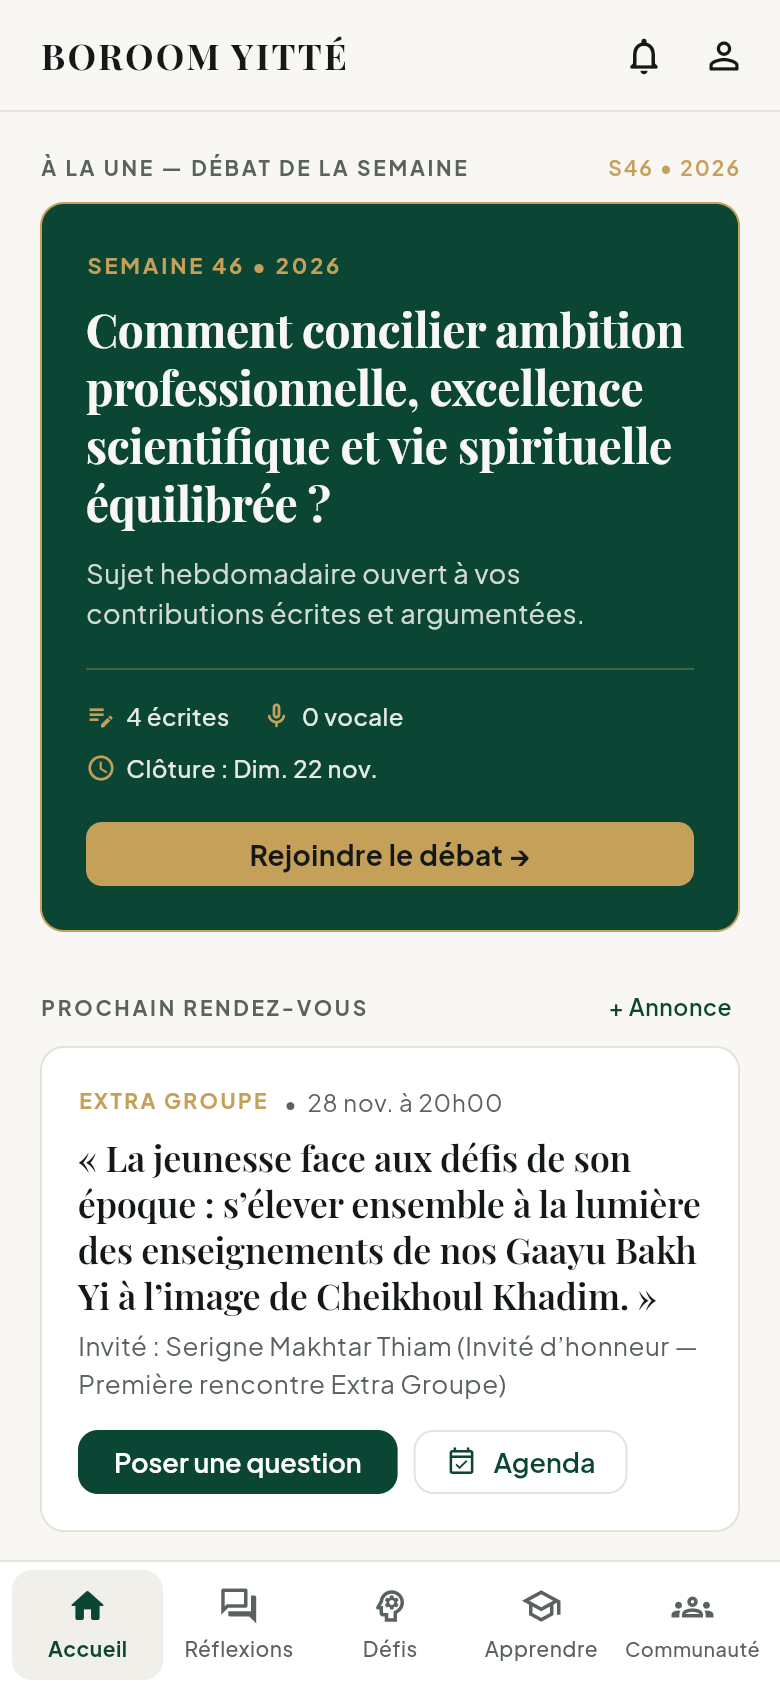
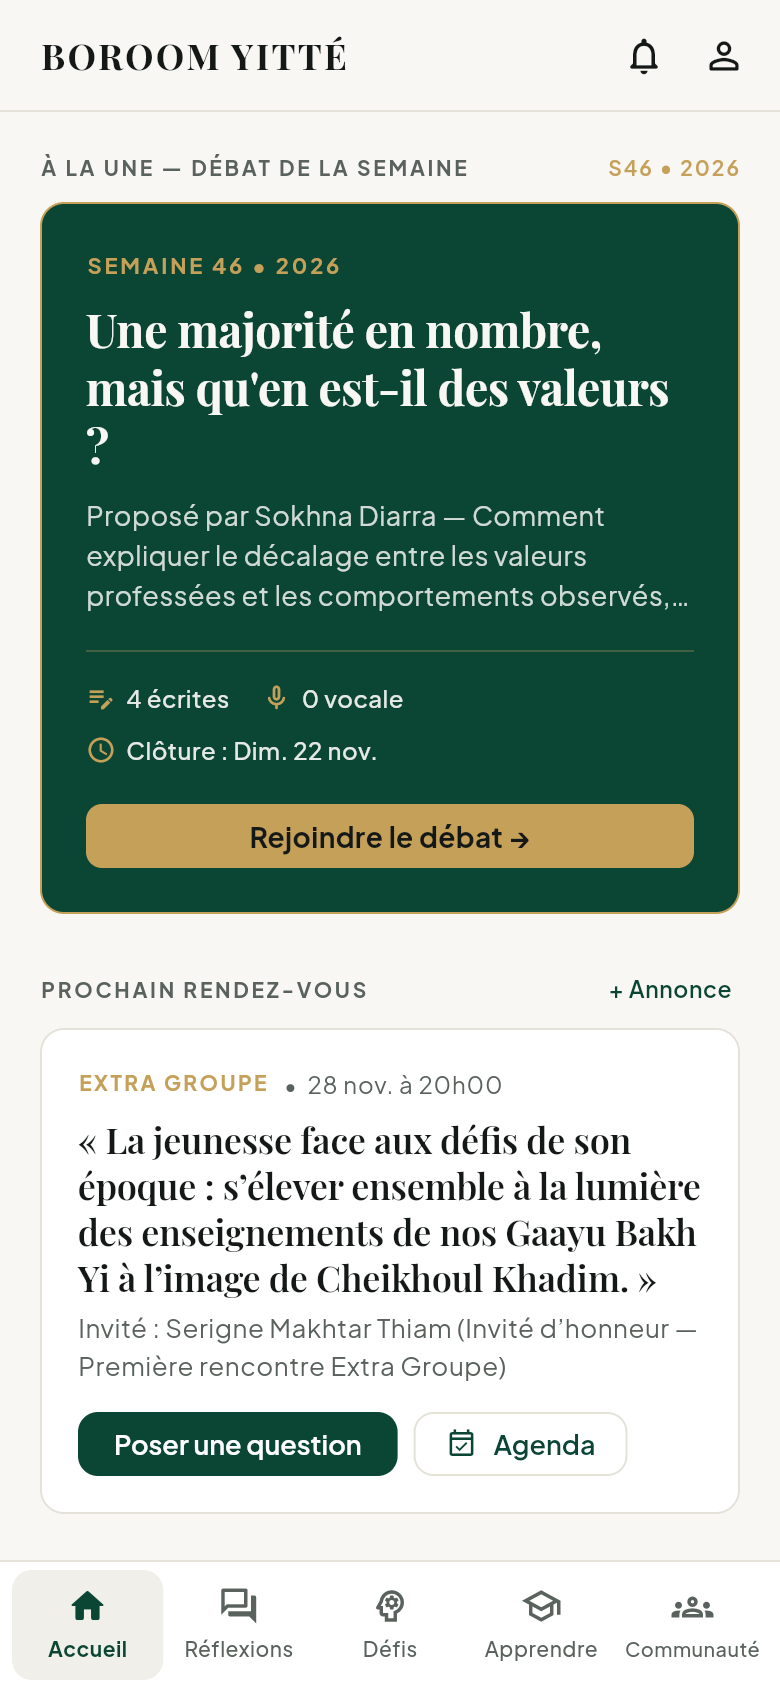
Sujets communautaires bruts sans jugement/moderationNote + import direct de sujets (.txt/.md)

diff --git a/mobile/lib/app/state/app_providers.dart b/mobile/lib/app/state/app_providers.dart
@@ -493,9 +493,11 @@ class EcosystemNotifier extends StateNotifier<EcosystemState> {
               .toList()
           : state.deletedReflectionIds;
       final loadedReflections = snap['reflections'] is List
-          ? (snap['reflections'] as List)
-              .map((e) => ReflectionPost.fromJson(Map<String, dynamic>.from(e)))
-              .toList()
+          ? (snap['reflections'] as List).map((e) {
+              final map = Map<String, dynamic>.from(e);
+              map['moderation_note'] = null;
+              return ReflectionPost.fromJson(map);
+            }).toList()
           : state.reflections;
       final mergedReflections = _mergeHistoricalArchives(
         loadedReflections,
@@ -507,12 +509,18 @@ class EcosystemNotifier extends StateNotifier<EcosystemState> {
               .map((e) => ExtraGroupeMeetingModel.fromJson(Map<String, dynamic>.from(e)))
               .toList()
           : state.extraGroupeMeetings;
+      final loadedWeekly = snap['weekly_topic'] is Map
+          ? WeeklyTopicModel.fromJson(
+              Map<String, dynamic>.from(snap['weekly_topic']))
+          : null;
+      final effectiveWeekly = (loadedWeekly == null ||
+              (loadedWeekly.id == 'wt-46' &&
+                  loadedWeekly.title.startsWith('Comment concilier ambition')))
+          ? state.weeklyTopic
+          : loadedWeekly;
       state = state.copyWith(
         reflections: mergedReflections,
-        weeklyTopic: snap['weekly_topic'] is Map
-            ? WeeklyTopicModel.fromJson(
-                Map<String, dynamic>.from(snap['weekly_topic']))
-            : state.weeklyTopic,
+        weeklyTopic: effectiveWeekly,
         challenges: snap['challenges'] is List
             ? _mergeChallenges(
                 (snap['challenges'] as List)
@@ -846,6 +854,29 @@ class EcosystemNotifier extends StateNotifier<EcosystemState> {
         .toList();
     state = state.copyWith(reflections: updated);
     BackendRepository.instance.cacheReflections(updated);
+    _persistSnapshot();
+  }
+
+  void setWeeklyTopic({
+    required String title,
+    required String introduction,
+    List<String> guidingQuestions = const [],
+  }) {
+    final t = state.weeklyTopic;
+    state = state.copyWith(
+      weeklyTopic: WeeklyTopicModel(
+        id: 'wt-${DateTime.now().millisecondsSinceEpoch}',
+        weekNumber: t.weekNumber,
+        year: t.year,
+        title: title,
+        introduction: introduction,
+        guidingQuestions: guidingQuestions.isNotEmpty
+            ? guidingQuestions
+            : t.guidingQuestions,
+        contributions: const [],
+        summary: null,
+      ),
+    );
     _persistSnapshot();
   }
 
@@ -2028,8 +2059,6 @@ EcosystemState _buildInitialState() {
         isFeaturedInLibrary: true,
         isHistoricalArchive: true,
         discussionDateLabel: 'Archive communautaire',
-        moderationNote:
-            'Cadre éditorial : examiner les représentations sociales, la responsabilité individuelle et collective et l’éducation, sans stigmatiser aucune communauté religieuse ni présenter des perceptions comme des statistiques.',
         mainQuestions: const [
           'Sommes-nous face à une défaillance de l’éducation, à un manque de communication, à une crise des valeurs ou aux conséquences d’une société qui ne sait plus transmettre ses repères ?',
           'Avons-nous collectivement échoué à faire de l’éducation morale et du sens des responsabilités des priorités ?',
@@ -2082,8 +2111,6 @@ EcosystemState _buildInitialState() {
         isFeaturedInLibrary: true,
         isHistoricalArchive: true,
         discussionDateLabel: 'Archive communautaire',
-        moderationNote:
-            'Sujet sensible — modération renforcée : ne jamais culpabiliser les victimes ; ne pas présenter des opinions comme des vérités juridiques ou médicales ; garantir un cadre respectueux.',
         mainQuestions: const [
           'Qu’est-ce que le consentement et est-ce que le silence signifie oui ?',
           'Comment mieux protéger les filles et les garçons et que transmettre dès le jeune âge ?',
@@ -2092,17 +2119,16 @@ EcosystemState _buildInitialState() {
       ),
     ],
     weeklyTopic: const WeeklyTopicModel(
-      id: 'wt-46',
+      id: 'wt-communaute-1',
       weekNumber: 46,
       year: 2026,
-      title:
-          'Comment concilier ambition professionnelle, excellence scientifique et vie spirituelle équilibrée ?',
+      title: "Une majorité en nombre, mais qu'en est-il des valeurs ?",
       introduction:
-          "Sujet hebdomadaire ouvert à vos contributions écrites et argumentées.",
+          "Proposé par Sokhna Diarra — Comment expliquer le décalage entre les valeurs professées et les comportements observés, et comment restaurer la transmission de nos repères ?",
       guidingQuestions: [
-        'Quelles habitudes protègent la concentration profonde au quotidien ?',
-        'Comment transformer une compétence technique en utilité sociale ?',
-        'Quel rôle joue l’entraide communautaire dans la persévérance ?',
+        "Sommes-nous face à une défaillance de l'éducation, à un manque de communication ou à une crise des valeurs ?",
+        "Nos parents ont-ils failli dans la transmission des bonnes manières et des principes fondamentaux à leurs enfants ?",
+        "Avons-nous collectivement échoué à faire de l'éducation morale et du sens des responsabilités des priorités ?",
       ],
       contributions: [],
     ),

diff --git a/mobile/lib/features/reflections/reflections_screen.dart b/mobile/lib/features/reflections/reflections_screen.dart
@@ -6,6 +6,7 @@ import '../../app/state/app_providers.dart';
 import '../../core/l10n/app_localizations.dart';
 import '../../core/models/domain_models.dart';
 import '../../core/services/external_link_bridge.dart';
+import '../../core/services/file_picker_bridge.dart';
 import '../../core/services/pdf_export_service.dart';
 import '../../core/services/whatsapp_bridge_service.dart';
 import '../../core/theme/app_theme.dart';
@@ -341,26 +342,6 @@ class _ReflectionsScreenState extends ConsumerState<ReflectionsScreen> {
                         .toList(),
                   ),
                 ],
-                if (p.moderationNote != null) ...[
-                  const SizedBox(height: 10),
-                  Container(
-                    width: double.infinity,
-                    padding: const EdgeInsets.all(10),
-                    decoration: BoxDecoration(
-                      color: AppTheme.tokensOf(context).goldSurface,
-                      borderRadius: BorderRadius.circular(12),
-                      border: Border.all(
-                          color: AppTheme.tokensOf(context).borderAccent),
-                    ),
-                    child: Text(
-                      p.moderationNote!,
-                      style: TextStyle(
-                        fontSize: 12,
-                        color: Theme.of(context).colorScheme.onSurface,
-                      ),
-                    ),
-                  ),
-                ],
                 if (p.attachmentName != null) ...[
                   const SizedBox(height: 8),
                   Chip(
@@ -655,18 +636,40 @@ class _ReflectionsScreenState extends ConsumerState<ReflectionsScreen> {
     final questionsCtrl = TextEditingController();
     final axesCtrl = TextEditingController();
     final docCtrl = TextEditingController();
-    String category = 'philosophy';
-    bool submitForApproval = false;
+    String category = 'society';
+    bool setAsWeeklyDebate = false;
 
     await showDialog<void>(
       context: context,
       builder: (ctx) => StatefulBuilder(
         builder: (ctx, setModalState) => AlertDialog(
-          title: const Text('Publier / Proposer un Sujet'),
+          title: const Text('Publier / Importer un Sujet'),
           content: SingleChildScrollView(
             child: Column(
               mainAxisSize: MainAxisSize.min,
+              crossAxisAlignment: CrossAxisAlignment.stretch,
               children: [
+                OutlinedButton.icon(
+                  icon: const Icon(Icons.upload_file_outlined, size: 18),
+                  label: const Text('Importer un sujet depuis un fichier (.txt, .md...)'),
+                  onPressed: () async {
+                    final picked = await FilePickerBridge.pickDocumentFile();
+                    if (picked == null) return;
+                    setModalState(() {
+                      if (titleCtrl.text.trim().isEmpty) {
+                        titleCtrl.text = picked.fileName
+                            .replaceAll(RegExp(r'\.[^.]+$'), '')
+                            .replaceAll('_', ' ');
+                      }
+                      if (picked.extractedText != null &&
+                          picked.extractedText!.trim().isNotEmpty) {
+                        bodyCtrl.text = picked.extractedText!.trim();
+                      }
+                      docCtrl.text = picked.fileName;
+                    });
+                  },
+                ),
+                const SizedBox(height: 10),
                 TextField(
                   controller: titleCtrl,
                   decoration: const InputDecoration(labelText: 'Titre du sujet *'),
@@ -727,11 +730,11 @@ class _ReflectionsScreenState extends ConsumerState<ReflectionsScreen> {
                 ),
                 SwitchListTile(
                   contentPadding: EdgeInsets.zero,
-                  value: submitForApproval,
+                  value: setAsWeeklyDebate,
                   onChanged: (v) =>
-                      setModalState(() => submitForApproval = v),
+                      setModalState(() => setAsWeeklyDebate = v),
                   title: const Text(
-                    'Soumettre à validation administrative',
+                    'Afficher en « Débat de la semaine » (Accueil)',
                     style: TextStyle(fontSize: 13),
                   ),
                 ),
@@ -775,9 +778,15 @@ class _ReflectionsScreenState extends ConsumerState<ReflectionsScreen> {
                           : [docCtrl.text.trim()],
                       attachmentName:
                           docCtrl.text.trim().isEmpty ? null : docCtrl.text.trim(),
-                      validationStatus:
-                          submitForApproval ? 'pending' : 'approved',
+                      validationStatus: 'approved',
                     );
+                if (setAsWeeklyDebate) {
+                  ref.read(ecosystemProvider.notifier).setWeeklyTopic(
+                        title: titleCtrl.text.trim(),
+                        introduction: bodyCtrl.text.trim(),
+                        guidingQuestions: qList,
+                      );
+                }
                 Navigator.pop(ctx);
               },
               child: const Text('Publier'),
